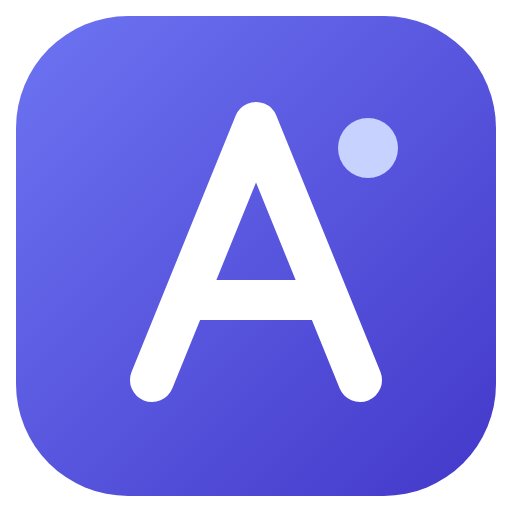
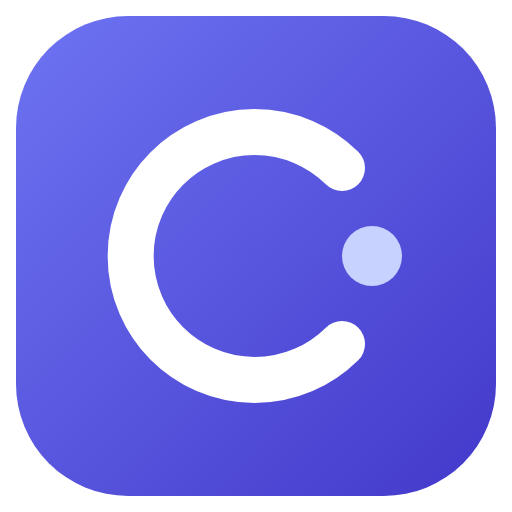
Rename the project from Atelier to Clyde
App name, ids, window title, env vars (CLYDE_USER_DATA, CLYDE_DISTRIBUTION),
data folder and database file, task branch prefix clyde/, preload bridge
window.clyde, UI text, docs, and a new C icon.

Claude-Session: https://claude.ai/code/session_013WkpEmBFFMeX71jPcXgHNh

Changed region(s): [[0.1875, 0.2188, 0.7812, 0.8125], [0.4688, 0.1875, 0.5312, 0.2188]]

diff --git a/src/main/agents/tasks.test.ts b/src/main/agents/tasks.test.ts
@@ -17,7 +17,7 @@ vi.mock('electron', () => ({ app: { getPath: () => { throw new Error('no electro
 const sh = (cwd: string, ...args: string[]) => execFileSync('git', args, { cwd, encoding: 'utf8' }).trim()
 
 function setup() {
-  const repo = mkdtempSync(join(tmpdir(), 'atelier-board-'))
+  const repo = mkdtempSync(join(tmpdir(), 'clyde-board-'))
   sh(repo, 'init', '-q', '-b', 'main')
   sh(repo, 'config', 'user.email', 'me@example.com')
   sh(repo, 'config', 'user.name', 'Me')
@@ -29,7 +29,7 @@ function setup() {
   db.pragma('foreign_keys = ON')
   migrate(db)
   const profiles = new ProfilesService(db, new SecretsService(db, { available: () => false, encrypt: () => Buffer.alloc(0), decrypt: () => '' }), {
-    profilesRoot: mkdtempSync(join(tmpdir(), 'atelier-p-')),
+    profilesRoot: mkdtempSync(join(tmpdir(), 'clyde-p-')),
     distribution: false
   })
   const profile = profiles.create({ kind: 'ollama', name: 'Local', color: '#64748b', auth: 'none' })
@@ -55,7 +55,7 @@ function setup() {
   }
   const changed = vi.fn()
   const tasks = new TaskService(db, {
-    worktrees: new WorktreeService(mkdtempSync(join(tmpdir(), 'atelier-wts-'))),
+    worktrees: new WorktreeService(mkdtempSync(join(tmpdir(), 'clyde-wts-'))),
     agents,
     sessions: control,
     workspaceRoot: () => repo,
@@ -74,7 +74,7 @@ describe('TaskService', () => {
   it('runs a task through the board and merges it into the base branch', async () => {
     const h = setup()
     const task = await h.tasks.create({ title: 'Add a license', description: 'Add an MIT LICENSE file.', agentId: h.agent.id })
-    expect(task).toMatchObject({ status: 'todo', baseBranch: 'main', branch: expect.stringMatching(/^atelier\/add-a-license-/) })
+    expect(task).toMatchObject({ status: 'todo', baseBranch: 'main', branch: expect.stringMatching(/^clyde\/add-a-license-/) })
     expect(existsSync(task.worktreePath)).toBe(true)
     expect(await h.tasks.list()).toHaveLength(1)
 
@@ -146,7 +146,7 @@ describe('TaskService', () => {
     const abandoned = await h.tasks.abandon(a.id)
     expect(abandoned).toMatchObject({ status: 'done', outcome: 'abandoned' })
     expect(existsSync(a.worktreePath)).toBe(false)
-    expect(sh(h.repo, 'branch', '--list', 'atelier/*')).toBe('')
+    expect(sh(h.repo, 'branch', '--list', 'clyde/*')).toBe('')
 
     const b = await h.tasks.create({ title: 'B', description: 'b', agentId: h.agent.id })
     await h.tasks.start(b.id)
@@ -172,9 +172,9 @@ describe('TaskService', () => {
 
   it('needs a git repository', async () => {
     const h = setup()
-    const plain = mkdtempSync(join(tmpdir(), 'atelier-plain-'))
+    const plain = mkdtempSync(join(tmpdir(), 'clyde-plain-'))
     const tasks = new TaskService(h.db, {
-      worktrees: new WorktreeService(mkdtempSync(join(tmpdir(), 'atelier-wts-'))),
+      worktrees: new WorktreeService(mkdtempSync(join(tmpdir(), 'clyde-wts-'))),
       agents: h.agents,
       sessions: { start: vi.fn(), send: vi.fn(), stop: vi.fn(), get: vi.fn() },
       workspaceRoot: () => plain,

diff --git a/src/main/services/worktrees.test.ts b/src/main/services/worktrees.test.ts
@@ -8,7 +8,7 @@ import { branchSlug, parseNameStatus, WorktreeService } from './worktrees'
 const sh = (cwd: string, ...args: string[]) => execFileSync('git', args, { cwd, encoding: 'utf8' }).trim()
 
 function repo() {
-  const dir = mkdtempSync(join(tmpdir(), 'atelier-repo-'))
+  const dir = mkdtempSync(join(tmpdir(), 'clyde-repo-'))
   sh(dir, 'init', '-q', '-b', 'main')
   sh(dir, 'config', 'user.email', 'me@example.com')
   sh(dir, 'config', 'user.name', 'Me')
@@ -16,7 +16,7 @@ function repo() {
   writeFileSync(join(dir, 'old.txt'), 'bye\n')
   sh(dir, 'add', '.')
   sh(dir, 'commit', '-q', '-m', 'init')
-  const service = new WorktreeService(mkdtempSync(join(tmpdir(), 'atelier-wt-')))
+  const service = new WorktreeService(mkdtempSync(join(tmpdir(), 'clyde-wt-')))
   return { dir, service }
 }
 
@@ -43,10 +43,10 @@ describe('WorktreeService', () => {
     expect(await service.isRepo(dir)).toBe(true)
     expect(await service.currentBranch(dir)).toBe('main')
     const ref = await service.create(dir, 'main', 'feature-1')
-    expect(ref.branch).toBe('atelier/feature-1')
+    expect(ref.branch).toBe('clyde/feature-1')
     expect(ref.worktreePath.startsWith(dir)).toBe(false)
     expect(readFileSync(join(ref.worktreePath, 'a.txt'), 'utf8')).toBe('one\ntwo\n')
-    expect(sh(ref.worktreePath, 'rev-parse', '--abbrev-ref', 'HEAD')).toBe('atelier/feature-1')
+    expect(sh(ref.worktreePath, 'rev-parse', '--abbrev-ref', 'HEAD')).toBe('clyde/feature-1')
   })
 
   it('lists committed, uncommitted and untracked changes with both versions', async () => {
@@ -79,7 +79,7 @@ describe('WorktreeService', () => {
     expect(readFileSync(join(dir, 'b.txt'), 'utf8')).toBe('from the agent\n')
     expect(sh(dir, 'log', '-1', '--format=%P').split(' ')).toHaveLength(2)
     expect(existsSync(ref.worktreePath)).toBe(false)
-    expect(sh(dir, 'branch', '--list', 'atelier/*')).toBe('')
+    expect(sh(dir, 'branch', '--list', 'clyde/*')).toBe('')
   })
 
   it('aborts a conflicting merge and reports the files', async () => {
@@ -112,6 +112,6 @@ describe('WorktreeService', () => {
     await service.remove(ref, { deleteBranch: true })
     expect(existsSync(ref.worktreePath)).toBe(false)
     expect(sh(dir, 'worktree', 'list').split('\n')).toHaveLength(1)
-    expect(sh(dir, 'branch', '--list', 'atelier/*')).toBe('')
+    expect(sh(dir, 'branch', '--list', 'clyde/*')).toBe('')
   })
 })

diff --git a/src/main/index.ts b/src/main/index.ts
@@ -31,10 +31,10 @@ import { DISTRIBUTION } from './build-flags'
 
 const log = createLogger('main')
 
-app.setName('Atelier')
-app.setAppUserModelId('dev.atelier.app')
+app.setName('Clyde')
+app.setAppUserModelId('dev.clyde.app')
 // Lets scripts and tests run against a throwaway profile.
-const userDataOverride = process.env['ATELIER_USER_DATA']
+const userDataOverride = process.env['CLYDE_USER_DATA']
 if (userDataOverride) app.setPath('userData', userDataOverride)
 
 let queryFn: Promise<QueryFn> | null = null
@@ -42,7 +42,7 @@ const query = () => (queryFn ??= loadQuery())
 
 /** Opens and migrates the app database; on failure the app still starts, with settings kept in memory. */
 function openAppDatabase(): Db | null {
-  const file = join(app.getPath('userData'), 'atelier.db')
+  const file = join(app.getPath('userData'), 'clyde.db')
   try {
     const db = openDatabase(file)
     const version = migrate(db)
@@ -51,17 +51,17 @@ function openAppDatabase(): Db | null {
   } catch (err) {
     log.error('could not open the database', err)
     dialog.showErrorBox(
-      'Atelier could not open its database',
+      'Clyde could not open its database',
       `${(err as Error).message}\n\nFile: ${file}\n\nSettings will not be saved during this session.`
     )
     return null
   }
 }
 
-/** %LOCALAPPDATA%\\Atelier\\worktrees on Windows (not roaming), the app data folder elsewhere. */
+/** %LOCALAPPDATA%\\Clyde\\worktrees on Windows (not roaming), the app data folder elsewhere. */
 function worktreesRoot(): string {
   const local = process.env['LOCALAPPDATA']
-  if (process.platform === 'win32' && local && !userDataOverride) return join(local, 'Atelier', 'worktrees')
+  if (process.platform === 'win32' && local && !userDataOverride) return join(local, 'Clyde', 'worktrees')
   return join(app.getPath('userData'), 'worktrees')
 }
 
@@ -103,7 +103,7 @@ if (!app.requestSingleInstanceLock()) {
     registerWorkspaceHandlers(workspace)
     registerTerminalHandlers(ptys, workspace)
 
-    const clientApp = `atelier/${app.getVersion()}`
+    const clientApp = `clyde/${app.getVersion()}`
     const claudeCodePath = () => settings.getAll().claudeCodePath
     // Without the app database, profiles live in memory for this session, like settings.
     const profileDb = db ?? memoryDatabase()

diff --git a/src/renderer/features/accounts/ProfileDialog.tsx b/src/renderer/features/accounts/ProfileDialog.tsx
@@ -61,7 +61,7 @@ const CHOICES: Choice[] = [
     auth: 'api-key',
     icon: Sparkles,
     title: 'Anthropic API',
-    description: 'Claude models in Atelier’s own agent loop.',
+    description: 'Claude models in Clyde’s own agent loop.',
     keyPlaceholder: 'sk-ant-…'
   },
   { kind: 'openai', auth: 'api-key', icon: Bot, title: 'OpenAI', description: 'GPT models.', keyPlaceholder: 'sk-…' },
@@ -184,7 +184,7 @@ function ProfileForm({
         <DialogDescription>
           {kind === 'claude-code'
             ? 'Each Claude Code account gets its own configuration folder, so several accounts can work side by side.'
-            : 'Runs Atelier’s own agent loop: read, write, list files and run commands, plus the MCP tools you allow.'}
+            : 'Runs Clyde’s own agent loop: read, write, list files and run commands, plus the MCP tools you allow.'}
         </DialogDescription>
       </DialogHeader>
 
@@ -268,7 +268,7 @@ function ProfileForm({
         )}
 
         {kind === 'ollama' && (
-          <Field label="Server URL" hint="Where Ollama listens. Atelier talks to its OpenAI-compatible /v1 API.">
+          <Field label="Server URL" hint="Where Ollama listens. Clyde talks to its OpenAI-compatible /v1 API.">
             <Input
               value={baseUrl}
               onChange={(e) => setBaseUrl(e.target.value)}

diff --git a/src/main/agents/manager.test.ts b/src/main/agents/manager.test.ts
@@ -39,10 +39,10 @@ function setup(
 ) {
   const db = new Database(':memory:')
   migrate(db)
-  const dir = mkdtempSync(join(tmpdir(), 'atelier-agents-'))
+  const dir = mkdtempSync(join(tmpdir(), 'clyde-agents-'))
   const binary = join(dir, 'claude')
   writeFileSync(binary, '')
-  const repo = mkdtempSync(join(tmpdir(), 'atelier-repo-'))
+  const repo = mkdtempSync(join(tmpdir(), 'clyde-repo-'))
   const profiles = new ProfilesService(db, new SecretsService(db, { available: () => false, encrypt: () => Buffer.alloc(0), decrypt: () => '' }), {
     profilesRoot: join(dir, 'profiles'),
     distribution: false
@@ -66,7 +66,7 @@ function setup(
     query: async () => query,
     onEvent: (e) => events.push(e),
     onSession: (s) => sessions.push(s),
-    clientApp: 'atelier/test',
+    clientApp: 'clyde/test',
     baseEnv: { PATH: '/usr/bin', ANTHROPIC_API_KEY: 'sk-ant-inherited' },
     log
   })
@@ -92,7 +92,7 @@ describe('AgentManager', () => {
     expect(calls[0]?.env).toEqual({
       PATH: '/usr/bin',
       CLAUDE_CONFIG_DIR: profiles.configDir(profile.id),
-      CLAUDE_AGENT_SDK_CLIENT_APP: 'atelier/test'
+      CLAUDE_AGENT_SDK_CLIENT_APP: 'clyde/test'
     })
 
     manager.send(info.id, 'hello')

diff --git a/src/renderer/features/mcp/McpServerDialog.tsx b/src/renderer/features/mcp/McpServerDialog.tsx
@@ -89,7 +89,7 @@ function ServerForm({ server, close }: { server?: McpServer; close: () => void }
       <DialogHeader>
         <DialogTitle>{editing ? `Edit ${server.name}` : 'Add an MCP server'}</DialogTitle>
         <DialogDescription>
-          Atelier connects to the server and lists its tools. Each agent only sees the tools you allow when you start it.
+          Clyde connects to the server and lists its tools. Each agent only sees the tools you allow when you start it.
         </DialogDescription>
       </DialogHeader>
       <form
@@ -103,7 +103,7 @@ function ServerForm({ server, close }: { server?: McpServer; close: () => void }
           <div className="grid grid-cols-2 gap-2" role="group" aria-label="Transport">
             {(
               [
-                ['stdio', SquareTerminal, 'Local command', 'Atelier starts the server (stdio).'],
+                ['stdio', SquareTerminal, 'Local command', 'Clyde starts the server (stdio).'],
                 ['http', Globe, 'Remote URL', 'Streamable HTTP, or SSE for older servers.']
               ] as const
             ).map(([value, Icon, title, description]) => (

diff --git a/src/renderer/features/accounts/LoginDialog.tsx b/src/renderer/features/accounts/LoginDialog.tsx
@@ -18,7 +18,7 @@ import { useProfiles } from '@/stores/profiles'
 
 /**
  * Runs `claude auth login` for one profile in an embedded terminal. Claude Code handles the
- * whole flow and writes the credentials into the profile's own folder; Atelier only relays keystrokes.
+ * whole flow and writes the credentials into the profile's own folder; Clyde only relays keystrokes.
  */
 export function LoginDialog({ profile, onClose }: { profile: Profile | null; onClose: () => void }) {
   const test = useProfiles((s) => s.test)
@@ -82,7 +82,7 @@ function LoginSession({ profile, onFailed, onDone }: { profile: Profile; onFaile
         <DialogTitle>Sign in: {profile.name}</DialogTitle>
         <DialogDescription className="flex items-start gap-1.5">
           <ShieldCheck className="mt-0.5 size-3.5 shrink-0" />
-          Claude Code’s own login runs below and opens your browser. Atelier never sees your credentials; they stay in
+          Claude Code’s own login runs below and opens your browser. Clyde never sees your credentials; they stay in
           this account’s folder.
         </DialogDescription>
       </DialogHeader>

diff --git a/src/main/agents/manager.ts b/src/main/agents/manager.ts
@@ -43,7 +43,7 @@ export interface AgentManagerDeps {
   log: Logger
 }
 
-/** What the manager drives: a Claude Code session or Atelier's own loop. */
+/** What the manager drives: a Claude Code session or Clyde's own loop. */
 interface AgentSession {
   start(): Promise<void>
   send(text: string): void
@@ -63,7 +63,7 @@ const ENDED: AgentStatus[] = ['stopped', 'error']
 export function apiSystemPrompt(cwd: string, platform: NodeJS.Platform, extra: string): string {
   const os = platform === 'win32' ? 'Windows (commands run in PowerShell)' : platform === 'darwin' ? 'macOS' : 'Linux'
   return [
-    `You are a coding agent working inside Atelier, in the folder ${cwd} on ${os}.`,
+    `You are a coding agent working inside Clyde, in the folder ${cwd} on ${os}.`,
     'Use the tools to read and change files and to run commands. Paths are relative to that folder.',
     'Read a file before editing it, and prefer edit_file for small changes. Keep replies short and say what you changed.',
     'Some tool calls wait for the user to approve them. When one is denied, follow the user’s message instead of retrying.',

diff --git a/src/renderer/features/accounts/AccountsPage.tsx b/src/renderer/features/accounts/AccountsPage.tsx
@@ -193,7 +193,7 @@ export function AccountsPage() {
           <div>
             <h1 className="text-lg font-semibold tracking-tight">Accounts</h1>
             <p className="mt-1 text-sm text-muted-foreground">
-              Each account has its own color and label, shown wherever it works. Atelier never switches accounts on its own.
+              Each account has its own color and label, shown wherever it works. Clyde never switches accounts on its own.
             </p>
           </div>
           <Button size="sm" onClick={() => setEditing('new')}>
@@ -252,7 +252,7 @@ export function AccountsPage() {
           <DialogHeader>
             <DialogTitle>Delete {deleting?.name}?</DialogTitle>
             <DialogDescription>
-              This removes the account from Atelier, its stored key, and its Claude Code folder, including the sign-in.
+              This removes the account from Clyde, its stored key, and its Claude Code folder, including the sign-in.
             </DialogDescription>
           </DialogHeader>
           <DialogFooter>

diff --git a/src/renderer/features/agents/AgentsPage.tsx b/src/renderer/features/agents/AgentsPage.tsx
@@ -103,7 +103,7 @@ function TaskCard({ task }: { task: Task }) {
         <span className="truncate">{agent?.name ?? 'No agent'}</span>
         <span className="flex items-center gap-1 font-mono">
           <GitBranch className="size-3" />
-          {task.branch.replace(/^atelier\//, '')}
+          {task.branch.replace(/^clyde\//, '')}
         </span>
         <span>· {relativeTime(task.updatedAt)}</span>
       </div>
@@ -166,7 +166,7 @@ function NewTaskDialog({ open, onOpenChange }: { open: boolean; onOpenChange: (o
       <DialogContent className="sm:max-w-lg">
         <DialogHeader>
           <DialogTitle>New task</DialogTitle>
-          <DialogDescription>Atelier creates a branch and a git worktree for it, from the branch checked out now.</DialogDescription>
+          <DialogDescription>Clyde creates a branch and a git worktree for it, from the branch checked out now.</DialogDescription>
         </DialogHeader>
         <form
           className="grid gap-4"

diff --git a/src/main/services/worktrees.ts b/src/main/services/worktrees.ts
@@ -7,9 +7,9 @@ import { AppError } from '@shared/errors'
 import type { MergeResult, TaskChange, TaskFileDiff } from '@shared/tasks'
 
 const MAX_DIFF_BYTES = 1024 * 1024
-const BRANCH_PREFIX = 'atelier/'
+const BRANCH_PREFIX = 'clyde/'
 /** Used only when the repository has no git identity configured. */
-const FALLBACK_IDENTITY = ['-c', 'user.name=Atelier', '-c', 'user.email=atelier@localhost']
+const FALLBACK_IDENTITY = ['-c', 'user.name=Clyde', '-c', 'user.email=clyde@localhost']
 
 export interface WorktreeRef {
   repoRoot: string
@@ -62,7 +62,7 @@ export function parseNameStatus(out: string): TaskChange[] {
 }
 
 /**
- * Git worktrees for tasks: one branch `atelier/<slug>` and one folder per task, outside the
+ * Git worktrees for tasks: one branch `clyde/<slug>` and one folder per task, outside the
  * repository so watchers and tooling never see them.
  */
 export class WorktreeService {

diff --git a/src/main/agents/claude-code/provider.ts b/src/main/agents/claude-code/provider.ts
@@ -24,7 +24,7 @@ export async function loadQuery(): Promise<QueryFn> {
 /** Approvals can wait for the user far longer than the 600 s default hook timeout. */
 const APPROVAL_TIMEOUT_S = 24 * 60 * 60
 
-/** Tools whose answers need UI Atelier does not have yet. */
+/** Tools whose answers need UI Clyde does not have yet. */
 const DISALLOWED_TOOLS = ['AskUserQuestion']
 
 /** A prompt stream that never sends anything, for control requests only. */
@@ -231,7 +231,7 @@ export class ClaudeCodeSession {
         hookSpecificOutput: {
           hookEventName: 'PreToolUse',
           permissionDecision: outcome.behavior,
-          permissionDecisionReason: outcome.behavior === 'allow' ? 'Allowed by Atelier' : outcome.message
+          permissionDecisionReason: outcome.behavior === 'allow' ? 'Allowed by Clyde' : outcome.message
         }
       }
     }
